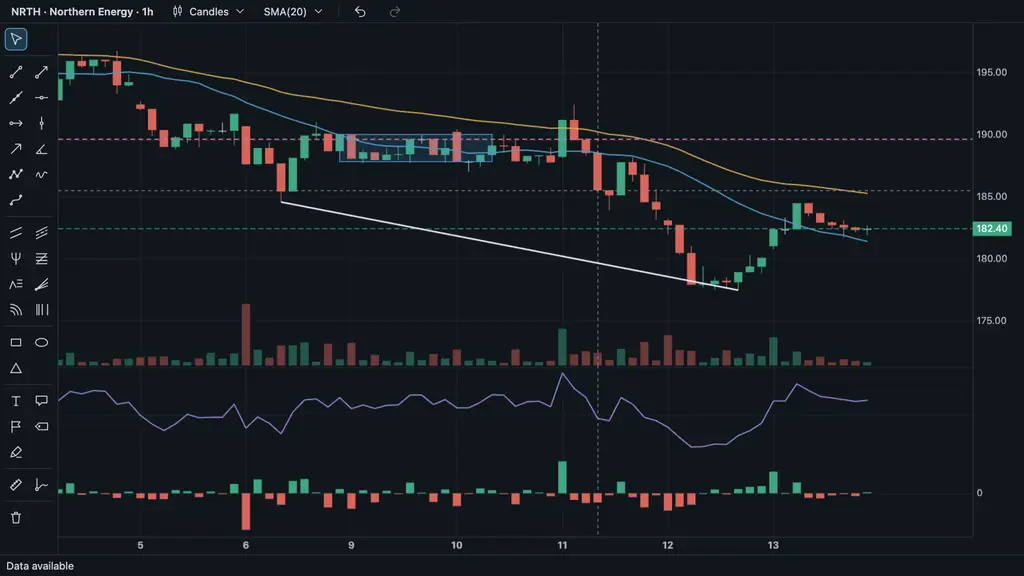
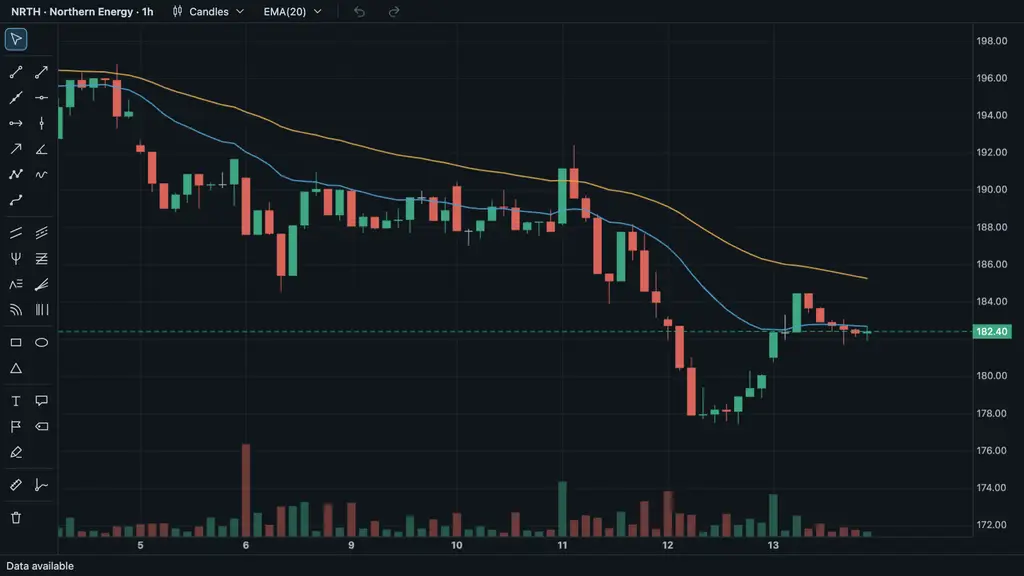
Simplify gallery chart and identify vibe-coded project

diff --git a/examples/gallery/gallery.js b/examples/gallery/gallery.js
@@ -10,7 +10,6 @@ const UP = '#3fa77f';
 const DOWN = '#d9645a';
 const BLUE = '#4a9fd0';
 const ORANGE = '#e0a84a';
-const PURPLE = '#9a7fd1';
 const TEAL = '#2dc5c9';
 const UP_VOLUME = 'rgba(63, 167, 127, 0.45)';
 const DOWN_VOLUME = 'rgba(217, 100, 90, 0.45)';
@@ -64,63 +63,17 @@ function loadBars(instrument, intervalId, count) {
   return { slots: slots.slice(-count), bars: bars.slice(-count), step };
 }
 
-// Integer hash in [0, 1): the same index always gives the same value on every engine.
-function unitHash(index) {
-  let h = Math.imul(index ^ 0x9e3779b9, 0x85ebca6b);
-  h ^= h >>> 13;
-  h = Math.imul(h, 0xc2b2ae35);
-  h ^= h >>> 16;
-  return (h >>> 0) / 4294967296;
-}
-
-// Buy share follows the candle body with a little noise, so the delta pane reads like real order flow.
-function withVolumeSplit(bars) {
-  return bars.map((bar, index) => {
-    const range = bar.high - bar.low;
-    const pressure = range > 0 ? Math.tanh((2.4 * (bar.close - bar.open)) / range) : 0;
-    const share = Math.min(0.92, Math.max(0.08, 0.5 + 0.3 * pressure + 0.12 * (unitHash(index) - 0.5)));
-    const buyVolume = Math.round(bar.volume * share);
-    return { ...bar, buyVolume, sellVolume: bar.volume - buyVolume };
-  });
-}
 
 const metadataFor = (instrument, interval, priceStep) => ({ instrumentId: instrument.id, interval, sourceId: 'feed', board: 'MAIN', priceStep });
 
-function anchorAt(bars, logical, price) {
-  const index = Math.min(bars.length - 1, Math.max(0, Math.round(logical)));
-  return { anchorBarId: bars[index].barId, offset: Math.round((logical - index) * 1e4) / 1e4, price };
-}
-
-// Drawings bind to the pane and its primary price scale; read both from the live layout instead of guessing.
-function mainBinding(chart) {
-  const pane = chart.getInteractionLayout().panes.find((entry) => entry.id === 'main');
-  const scale = pane?.priceScales[0];
-  if (!scale) throw new Error('The main pane has no primary price scale');
-  return { paneId: pane.id, scaleId: scale.id };
-}
-
-function addDrawing(chart, binding, spec) {
-  try {
-    return chart.drawings.add({ ...binding, ...spec });
-  } catch (error) {
-    throw new Error(`drawings.add(${spec.type}) failed: ${error.message}`, { cause: error });
-  }
-}
-
-const extremeIndex = (bars, from, to, better) => {
-  let best = from;
-  for (let i = from; i <= to; i += 1) if (better(bars[i], bars[best])) best = i;
-  return best;
-};
 
 // ------------------------------------------------------------------- hero
 async function buildHero() {
   const instrument = NORTHERN;
-  const { slots, bars: plain, step } = loadBars(instrument, '60', 600);
-  const bars = withVolumeSplit(plain);
+  const { slots, bars, step } = loadBars(instrument, '60', 600);
   const n = bars.length;
   const metadata = metadataFor(instrument, '1h', step);
-  const mode = { chartType: 'candles', indicator: 'sma20' };
+  const mode = { chartType: 'candles', indicator: 'ema20' };
   let chart = null;
   let price = null;
   let priceCounter = 0;
@@ -149,15 +102,13 @@ async function buildHero() {
     return handle;
   }
 
-  let rsiPane = null;
   // Indicators computed from the price series are rebuilt whenever that series is replaced.
   function addPriceOverlays() {
     const sourceField = mode.chartType === 'line' ? 'value' : 'close';
     overlays.push(addOverlay({ type: 'ema', source: price.id, pane: 'main', parameters: { period: 50, sourceField }, style: { color: ORANGE, lineWidth: 1.5 } }));
-    overlays.push(addOverlay({ type: 'rsi', source: price.id, pane: rsiPane, parameters: { period: 14, sourceField }, style: { color: PURPLE, lineWidth: 1.5 } }));
     if (mode.indicator) overlays.push(addSelectedIndicator(sourceField));
   }
-  const selectable = { sma20: { type: 'sma', color: BLUE }, ema20: { type: 'ema', color: TEAL } };
+  const selectable = { sma20: { type: 'sma', color: TEAL }, ema20: { type: 'ema', color: BLUE } };
   function addSelectedIndicator(sourceField) {
     const { type, color } = selectable[mode.indicator];
     return addOverlay({ type, source: price.id, pane: 'main', parameters: { period: 20, sourceField }, style: { color, lineWidth: 1.5 } });
@@ -227,43 +178,13 @@ async function buildHero() {
     { seriesId: volumeDown.id, operation: 'setData', metadata: volumeMetadata, points: bars.filter((bar) => bar.close < bar.open).map(volumePoint) },
   ] });
 
-  // The delta source carries buy/sell volume and survives chart type changes; line charts have no such fields.
-  const flow = chart.addSeries('candlestick', { id: 'flow', visible: false, lastValueVisible: false, priceScaleId: 'flow' }, 'main');
-  chart.priceScale('main', 'flow').setOverlay(true);
-  flow.setData(bars, metadata);
-
-  rsiPane = chart.addPane({ height: 0.26 });
-  const deltaPane = chart.addPane({ height: 0.24 });
   addPriceOverlays();
-  addOverlay({ type: 'delta', source: 'flow', pane: deltaPane, style: { upColor: UP, downColor: DOWN } });
   chart.ui.resolveAvailable({ rows: bars });
 
-  // Drawings and the crosshair need a laid-out chart, and the visible range needs its final size.
+  // Set the visible range after the chart has been laid out.
   await chart.whenRendered();
   const first = n - VISIBLE_BARS;
   chart.indexScale().setVisibleRange({ from: first, to: n + 8 });
-  await chart.whenRendered();
-  const binding = mainBinding(chart);
-  const at = (logical, value) => anchorAt(bars, logical, value);
-
-  const trendFrom = extremeIndex(bars, first + 2, first + 24, (bar, best) => bar.low < best.low);
-  const trendTo = extremeIndex(bars, first + 34, n - 10, (bar, best) => bar.low < best.low);
-  const zoneFrom = n - 46;
-  const zoneTo = n - 33;
-  const zoneCloses = bars.slice(zoneFrom, zoneTo + 1).map((bar) => bar.close);
-  const closes = bars.slice(first).map((bar) => bar.close).sort((a, b) => a - b);
-  const pivot = Math.round(closes[Math.floor(closes.length * 0.7)] / step) * step;
-
-  addDrawing(chart, binding, { id: 'hero-trend', type: 'segment', anchors: [at(trendFrom, bars[trendFrom].low), at(trendTo, bars[trendTo].low)], style: { color: '#e8eef4', width: 2 } });
-  addDrawing(chart, binding, { id: 'hero-level', type: 'horizontalLevel', anchors: [{ price: pivot }], style: { color: '#d36fb1', width: 1.5, dash: 'dashed' } });
-  addDrawing(chart, binding, {
-    id: 'hero-zone', type: 'rectangle',
-    anchors: [at(zoneFrom, Math.min(...zoneCloses)), at(zoneTo, Math.max(...zoneCloses))],
-    style: { color: BLUE, width: 1, fill: true, fillColor: 'rgba(74, 159, 208, 0.16)' },
-  });
-
-  const crosshairBar = bars[n - 24];
-  chart.setCrosshair(crosshairBar.barId, crosshairBar.close);
   await chart.whenRendered();
 }
 

diff --git a/README.ru.md b/README.ru.md
@@ -4,7 +4,7 @@
 
 Библиотека графиков на Canvas 2D без зависимостей для рыночных данных: свечи, бары, линии, области и гистограммы, индикаторы, инструменты рисования, алерты и доступный интерфейс из настраиваемых частей.
 
-![Свечной график с объёмом, скользящими средними, RSI, дельтой объёма и инструментами рисования](.github/images/hero.webp)
+![Свечной график с объёмом и экспоненциальными скользящими средними](.github/images/hero.webp)
 
 ## Возможности
 
@@ -81,6 +81,6 @@ node examples/terminal/serve.mjs 8340
 
 ## Статус
 
-Версия 0.1.0: API может меняться несовместимо в минорных версиях. Большая часть кода написана с помощью ИИ и проверялась автором в браузере; автоматических тестов пока нет. Не используйте для торговых решений без собственной проверки. Изменения — [CHANGELOG.md](CHANGELOG.md).
+Версия 0.1.0: проект vibe-coded — большая часть кода написана с помощью ИИ и проверялась автором в браузере. API может меняться несовместимо в минорных версиях; автоматических тестов пока нет. Не используйте для торговых решений без собственной проверки. Изменения — [CHANGELOG.md](CHANGELOG.md).
 
 Лицензия — Apache-2.0, см. [LICENSE](LICENSE). «Как есть», без гарантий; не инвестиционная рекомендация.

diff --git a/README.md b/README.md
@@ -4,7 +4,7 @@
 
 Zero-dependency Canvas 2D charting library for market data: candlesticks, bars, lines, areas and histograms, indicators, drawing tools, alerts and an accessible, composable interface.
 
-![Candlestick chart with volume, moving averages, RSI, volume delta and drawing tools](.github/images/hero.webp)
+![Candlestick chart with volume and exponential moving averages](.github/images/hero.webp)
 
 ## Features
 
@@ -81,6 +81,6 @@ Example data is synthetic.
 
 ## Status
 
-Version 0.1.0: the API may change incompatibly in minor versions. Most of the code was written with AI assistance and checked by the author in a browser; there is no automated test suite yet. Do not use it for trading decisions without your own verification. Changes: [CHANGELOG.md](CHANGELOG.md).
+Version 0.1.0: this is a vibe-coded project; most of the code was written with AI assistance and checked by the author in a browser. The API may change incompatibly in minor versions; there is no automated test suite yet. Do not use it for trading decisions without your own verification. Changes: [CHANGELOG.md](CHANGELOG.md).
 
 Licensed under Apache-2.0, see [LICENSE](LICENSE). Provided "as is", without warranty; not investment advice.
